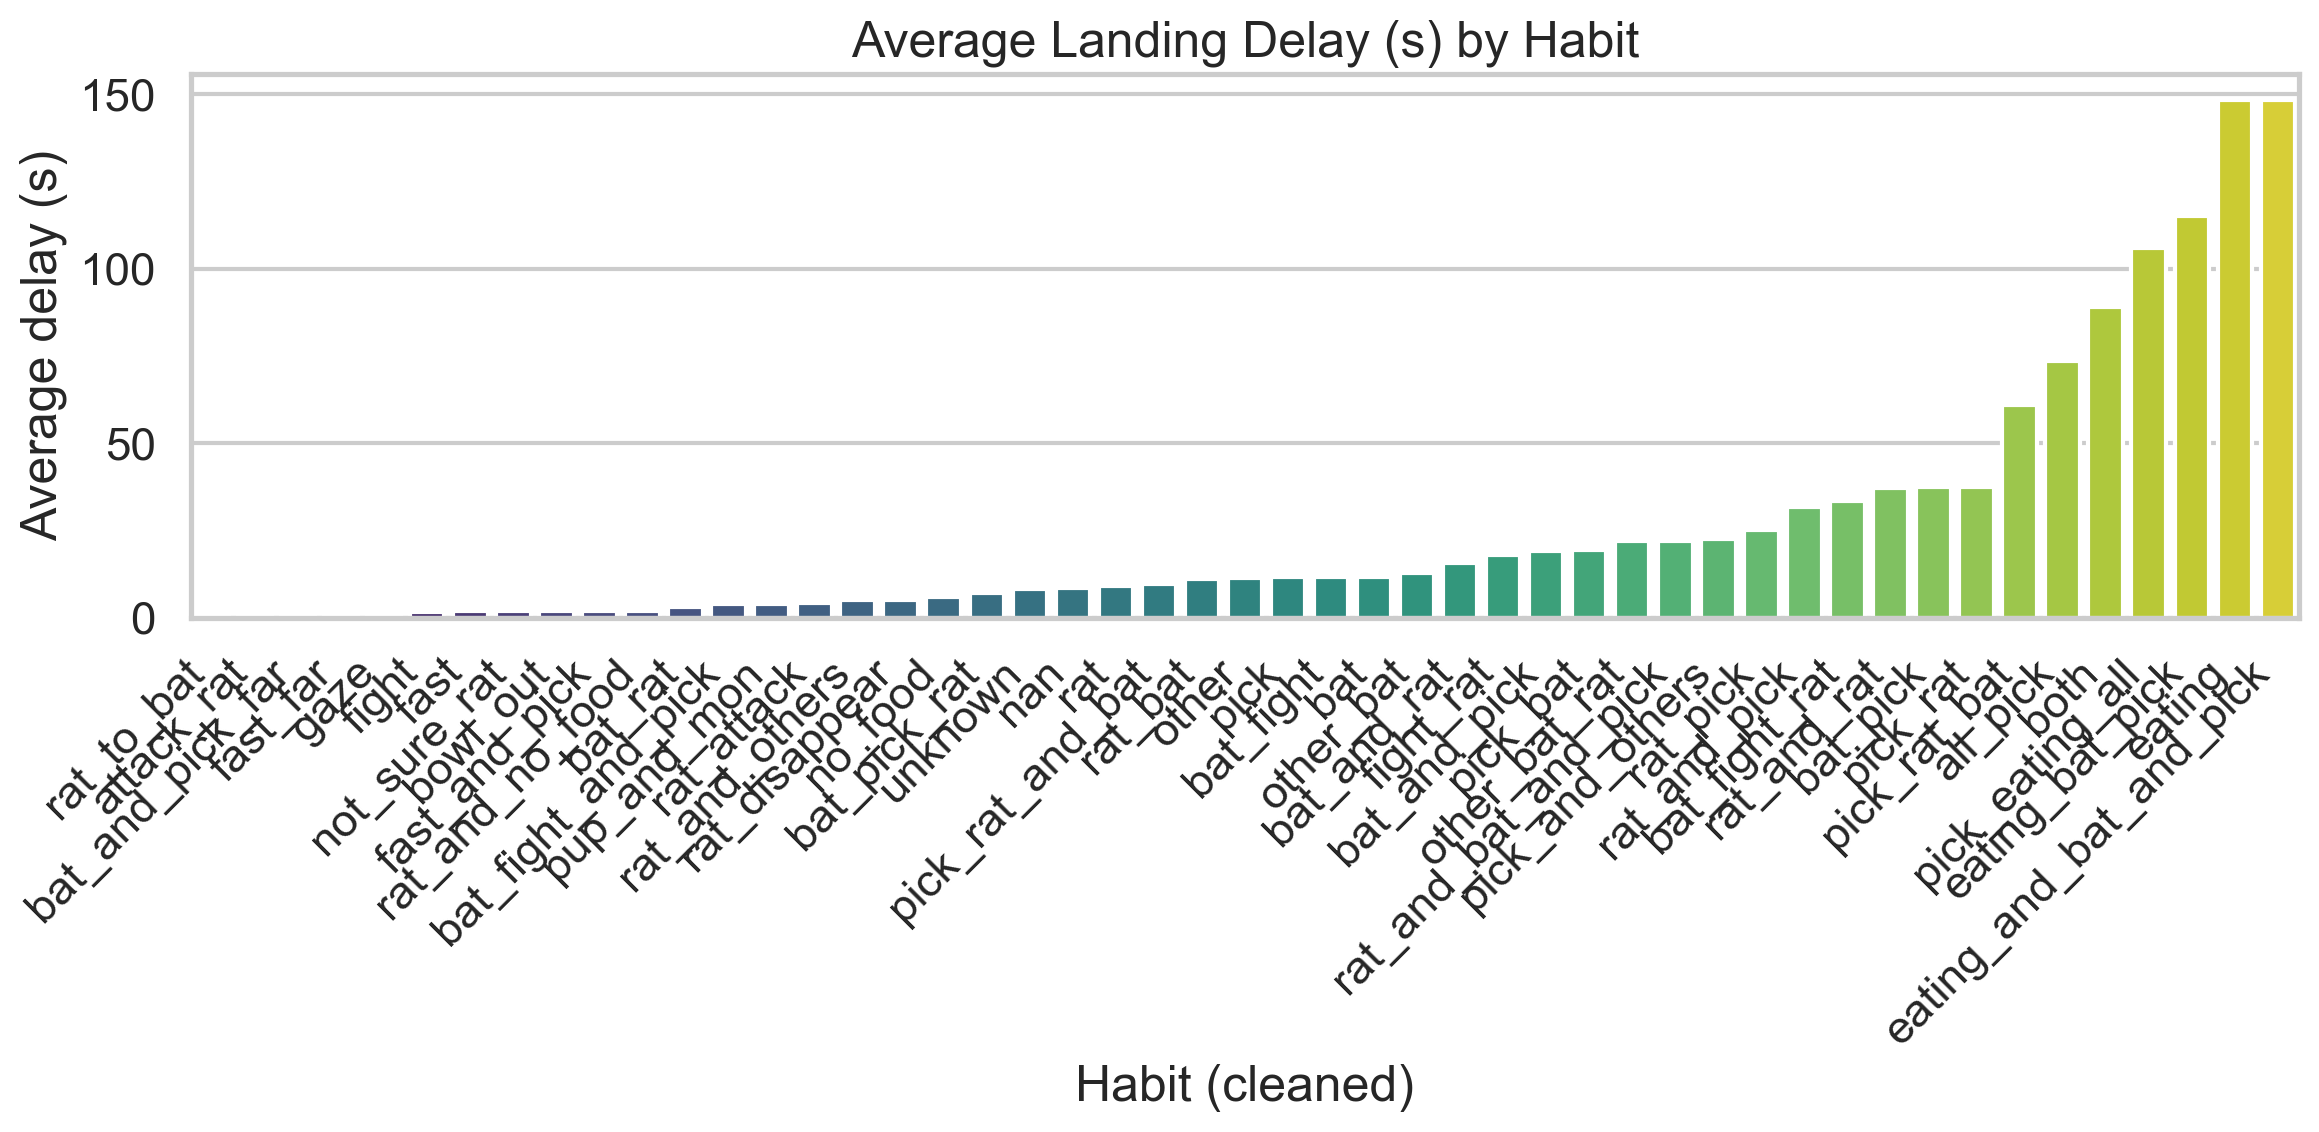
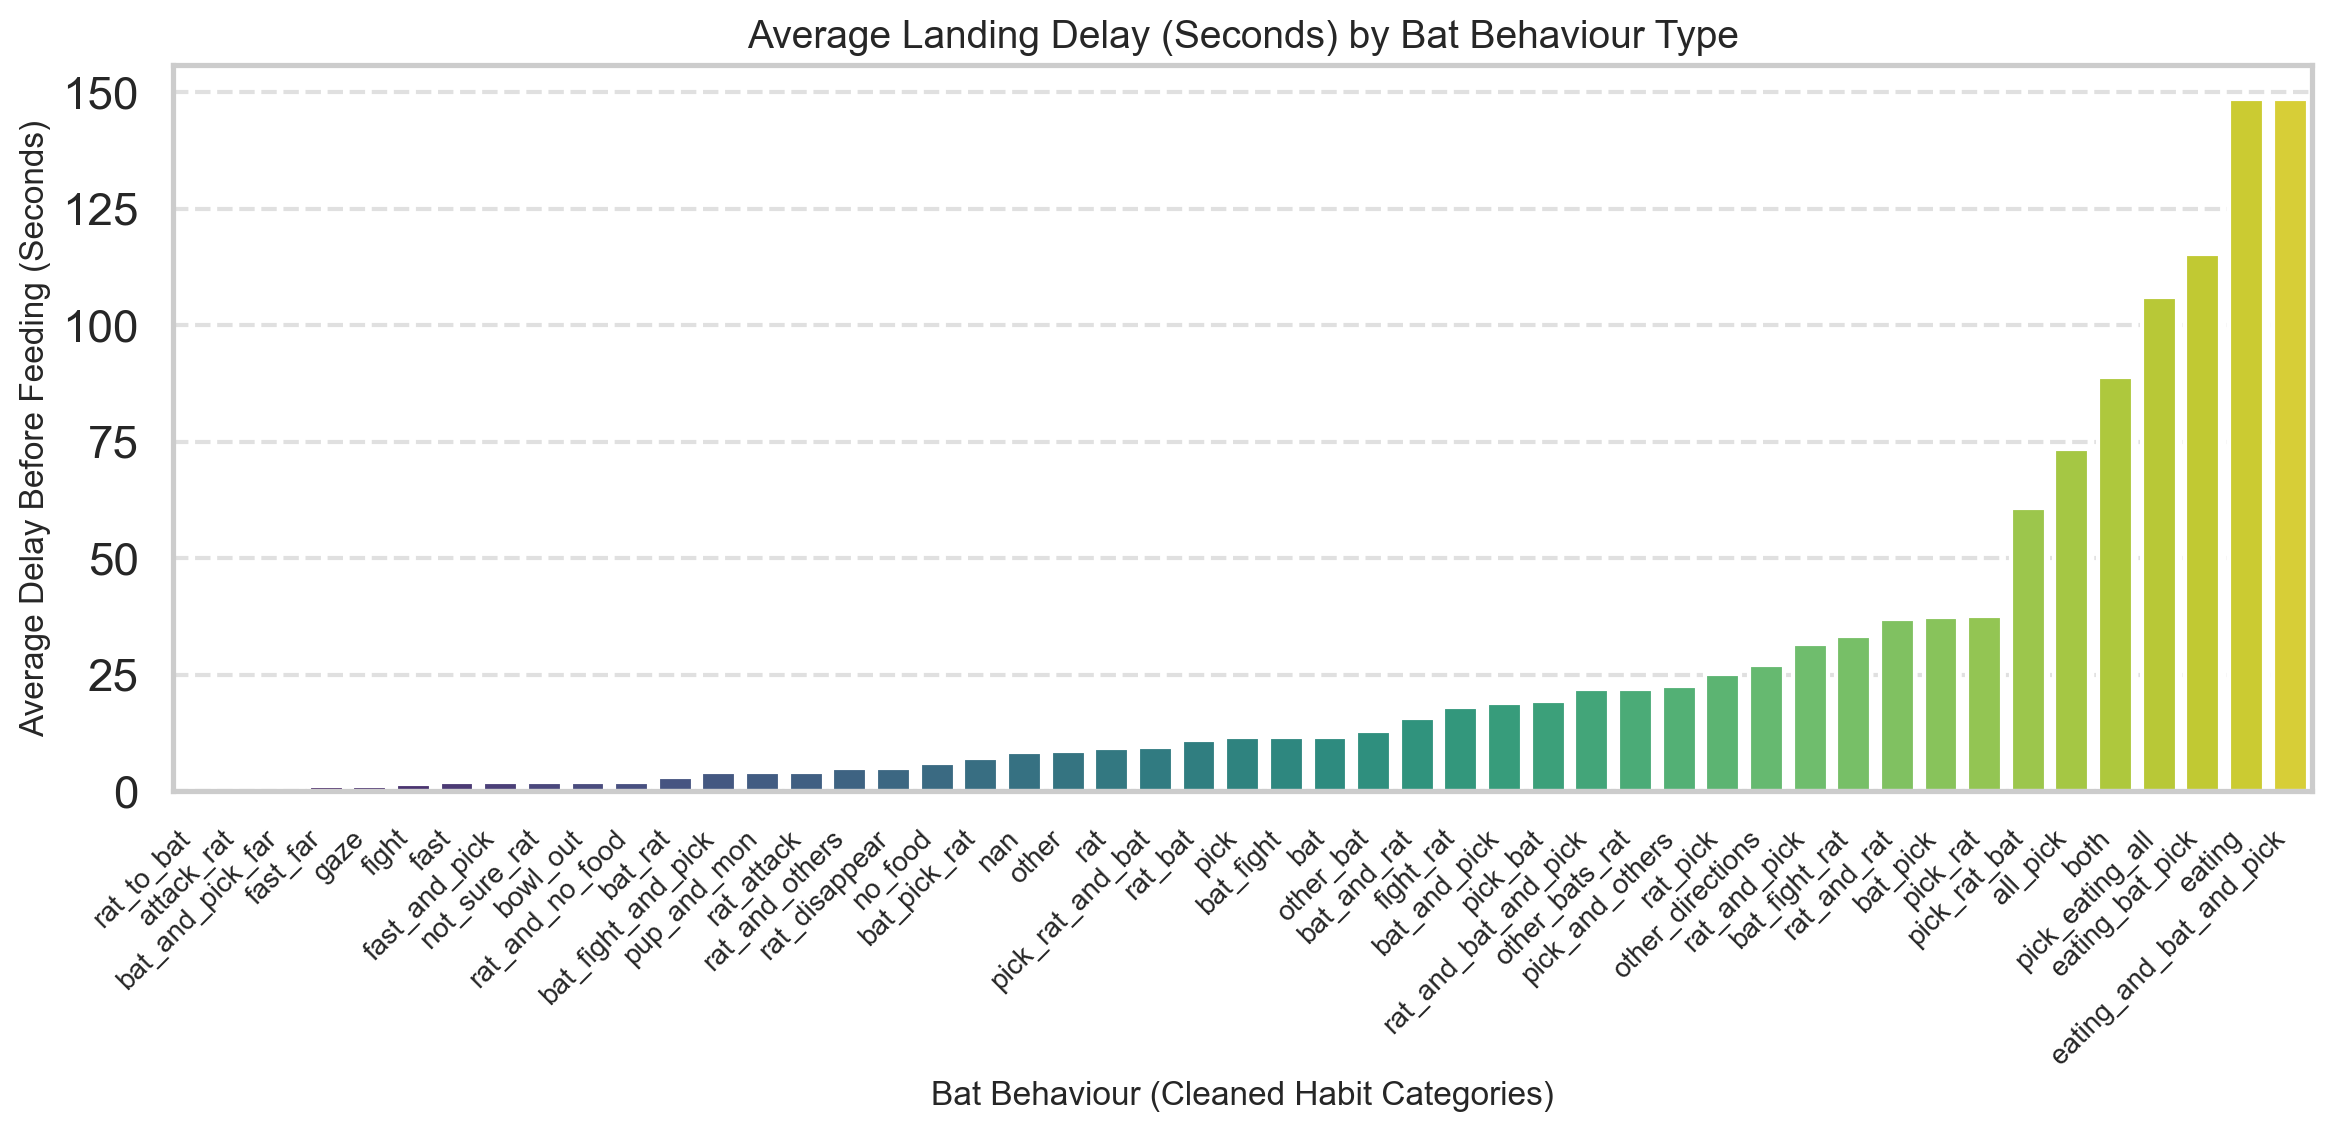
added data explanatory and som data cleaning

diff --git a/Assigment3_combined.py b/Assigment3_combined.py
@@ -1,0 +1,349 @@
+# ============================================================
+# HIT140 Project – S225 FOUNDATIONS OF DATA SCIENCE. Assignment 3
+#Bidhan Chaudhary (S394807)
+#Dipesh Sedhai (S395457)
+#Nitesh Raj Chaudhary (S394811)
+#Roshan Kumar Shrestha (S395498)
+# Datasets: dataset1.csv (bat landings, per-event) & dataset2.csv (30-min windows)
+# ============================================================
+
+import pandas as pd
+import numpy as np
+import matplotlib.pyplot as plt
+import seaborn as sns
+from scipy import stats
+import statsmodels.api as sm
+import statsmodels.formula.api as smf
+from statsmodels.stats.outliers_influence import variance_inflation_factor # Added for VIF
+
+# sklearn usage (used for simple train/test R²)
+try:
+    from sklearn.model_selection import train_test_split
+    from sklearn.linear_model import LinearRegression
+    from sklearn.metrics import r2_score, mean_squared_error
+    SKLEARN_AVAILABLE = True
+except Exception:
+    SKLEARN_AVAILABLE = False
+    print("Note: scikit-learn not available. Sklearn-based evaluation will be skipped. "
+          "Install via `pip install scikit-learn` if you want train/test evaluation.")
+
+# ---------- Settings ----------
+pd.set_option('display.max_columns', 200)
+sns.set(style="whitegrid", context="talk")
+
+
+# ---------- Utility: save figure ----------
+def savefig(path):
+    plt.tight_layout()
+    plt.savefig(path, dpi=200, bbox_inches="tight")
+    plt.close()
+
+
+# ---------- Utility: Season mapping helper ----------
+def season_from_month(m):
+    """Maps month number to a season name (Northern Hemisphere)."""
+    if pd.isna(m): return np.nan
+    try: mm = int(m)
+    except Exception: return np.nan
+    if mm in [12, 1, 2]: return "Winter"
+    if mm in [3, 4, 5]: return "Spring"
+    if mm in [6, 7, 8]: return "Summer"
+    if mm in [9, 10, 11]: return "Autumn"
+    return np.nan
+
+
+# ----------  Load datasets ----------
+df1 = pd.read_csv("dataset1.csv")   # event-level
+df2 = pd.read_csv("dataset2.csv")   # 30-min window-level
+
+
+# ----------  Cleaning functions ----------
+def clean_dataset1(df1):
+    """Clean event-level dataset: parse times, coerce numerics, drop missing critical rows,
+       winsorize numeric extremes, clean habit labels, create features."""
+    df = df1.copy()
+
+    # 1. Parse dates (if present)
+    for col in ["start_time", "rat_period_start", "rat_period_end", "sunset_time"]:
+        if col in df.columns:
+            df[col] = pd.to_datetime(df[col], errors="coerce", dayfirst=True)
+
+    # *** FIX: Robustly derive month and season from start_time ***
+    if "start_time" in df.columns:
+        # Extract month number from parsed datetime
+        df["month_num"] = df["start_time"].dt.month
+        # Map season using the reliable month number
+        df["season"] = df["month_num"].apply(season_from_month)
+    else:
+        # If start_time is missing, fall back to original 'month' column if present
+        if "month" in df.columns:
+            df["month_num"] = pd.to_numeric(df["month"], errors="coerce")
+            df["season"] = df["month_num"].apply(season_from_month)
+        else:
+             df["season"] = np.nan
+    # ***************************************************************
+
+    #  Coerce numeric columns
+    numeric_cols = [
+        "bat_landing_to_food", "seconds_after_rat_arrival",
+        "risk", "reward", "month", "hours_after_sunset" # 'season' removed as it's now derived
+    ]
+    for col in numeric_cols:
+        if col in df.columns:
+            df[col] = pd.to_numeric(df[col], errors="coerce")
+
+    # Drop duplicates
+    df = df.drop_duplicates()
+
+    # Drop rows missing critical fields for event analysis
+    required = ["start_time", "bat_landing_to_food", "risk", "reward"]
+    present_required = [c for c in required if c in df.columns]
+    if present_required:
+        df = df.dropna(subset=present_required)
+
+    # Remove negative/implausible values and winsorize extremes
+    if "bat_landing_to_food" in df.columns:
+        df = df[df["bat_landing_to_food"] >= 0]
+        q1, q99 = df["bat_landing_to_food"].quantile([0.01, 0.99])
+        df["bat_landing_to_food"] = df["bat_landing_to_food"].clip(lower=q1, upper=q99)
+
+    if "seconds_after_rat_arrival" in df.columns:
+        q1, q99 = df["seconds_after_rat_arrival"].quantile([0.01, 0.99])
+        df["seconds_after_rat_arrival"] = df["seconds_after_rat_arrival"].clip(lower=q1, upper=q99)
+
+    # Habit cleaning / normalization (no change)
+    if "habit" in df.columns:
+        mask_clean = ~df["habit"].astype(str).str.contains(r",", regex=True, na=False)
+        df.loc[mask_clean, "habit_cleaned"] = df.loc[mask_clean, "habit"].astype(str)
+
+        replace_map = {
+            "bat_figiht": "bat_fight", "rat attack": "rat_attack", "bats": "bat",
+            "others": "other", "other_bats": "other_bat", "other_bats/rat": "other_bat_rat",
+            "other directions": "other", "fight_bat": "bat_fight", "rat_and_bat": "bat_and_rat",
+            "pick_and_rat": "rat_and_pick", "pick_and_bat": "bat_and_pick",
+            "rat_pick_and_bat": "pick_rat_and_bat", "bat_rat_pick": "pick_rat_bat",
+            "pick_bat_rat": "pick_rat_bat", "eating_bat_rat_pick": "eating_bat_pick",
+            "bat_fight_and_rat": "bat_fight_rat", "rat_bat_fight": "bat_fight_rat",
+            "pick_and_all": "all_pick", " ": "unknown"
+        }
+        df["habit_cleaned"] = df["habit_cleaned"].astype(str).str.lower().str.replace(r"[ ,/]", "_", regex=True)
+        df["habit_cleaned"] = df["habit_cleaned"].replace(replace_map)
+        df["habit_cleaned"] = df["habit_cleaned"].fillna("unknown")
+    else:
+        df["habit_cleaned"] = "unknown"
+
+    # Flag if rat present at landing time (no change)
+    if "seconds_after_rat_arrival" in df.columns:
+        df["rat_present_at_landing"] = (df["seconds_after_rat_arrival"] >= 0).astype(int)
+
+    # Create vigilance proxy (no change)
+    if "bat_landing_to_food" in df.columns:
+        df["vigilance_delay_s"] = df["bat_landing_to_food"]
+    else:
+        df["vigilance_delay_s"] = np.nan
+
+    return df
+
+
+def clean_dataset2(df2):
+    """Clean window-level dataset: parse times, coerce numerics, drop missing critical rows,
+       filter rat_minutes plausible range, winsorize extremes, create rat_present."""
+    df = df2.copy()
+
+    if "time" in df.columns:
+        df["time"] = pd.to_datetime(df["time"], errors="coerce", dayfirst=True)
+        # *** FIX: Robustly derive month and season from time ***
+        df["month_num"] = df["time"].dt.month
+        df["season"] = df["month_num"].apply(season_from_month)
+        # ********************************************************
+    else:
+        # Fallback if time is missing
+        if "month" in df.columns:
+            df["month_num"] = pd.to_numeric(df["month"], errors="coerce")
+            df["season"] = df["month_num"].apply(season_from_month)
+        else:
+             df["season"] = np.nan
+
+    numeric_cols = [
+        "hours_after_sunset", "bat_landing_number",
+        "food_availability", "rat_minutes", "rat_arrival_number", "month"
+    ]
+    for col in numeric_cols:
+        if col in df.columns:
+            df[col] = pd.to_numeric(df[col], errors="coerce")
+
+    df = df.drop_duplicates()
+
+    # Require core fields for window-level analyses (no change)
+    required = ["time", "bat_landing_number", "rat_minutes"]
+    present_req = [c for c in required if c in df.columns]
+    if present_req:
+        df = df.dropna(subset=present_req)
+
+    # Keep rat_minutes within a plausible window (0-30 minutes) (no change)
+    if "rat_minutes" in df.columns:
+        df = df[df["rat_minutes"].between(0, 30)]
+
+    # Remove negatives and winsorize extremes on key numeric columns (no change)
+    for col in ["rat_arrival_number", "food_availability", "bat_landing_number"]:
+        if col in df.columns:
+            df = df[df[col] >= 0]
+            q1, q99 = df[col].quantile([0.01, 0.99])
+            df[col] = df[col].clip(lower=q1, upper=q99)
+
+    # features (no change)
+    if "rat_minutes" in df.columns:
+        df["rat_present"] = (df["rat_minutes"] > 0).astype(int)
+        df["rat_pressure"] = df["rat_minutes"] / 30.0
+
+    return df
+
+
+df1_clean = clean_dataset1(df1)
+df2_clean = clean_dataset2(df2)
+
+
+
+
+#################### Feature engineering ####################
+# time period bins (window-level)
+if "hours_after_sunset" in df2_clean.columns:
+    df2_clean["time_period"] = pd.cut(df2_clean["hours_after_sunset"], bins=[-1, 2, 5, 10], labels=["Early", "Mid", "Late"])
+
+# date columns for merging
+if "start_time" in df1_clean.columns:
+    df1_clean["date"] = pd.to_datetime(df1_clean["start_time"]).dt.date
+if "time" in df2_clean.columns:
+    df2_clean["date"] = pd.to_datetime(df2_clean["time"]).dt.date
+
+
+###################### Merge by DATE (daily aggregate of window-level df2) #################
+def merge_by_date(d1, d2):
+    """
+    Aggregate window-level d2 to daily summaries and left-merge onto event-level d1 by date.
+    """
+    d1 = d1.copy()
+    d2 = d2.copy()
+    d1["date"] = pd.to_datetime(d1["start_time"]).dt.date
+    d2["date"] = pd.to_datetime(d2["time"]).dt.date
+
+    # Aggregate d2 per date (choose aggregation functions)
+    agg_dict = {}
+    for c in ["bat_landing_number", "food_availability", "rat_minutes", "rat_arrival_number", "hours_after_sunset", "rat_pressure"]:
+        if c in d2.columns:
+            agg_dict[c] = "mean"
+    if "rat_present" in d2.columns:
+        agg_dict["rat_present"] = "max"  # 1 if rats present any time that day
+    if "month_num" in d2.columns: # Use the reliable month_num for 'first'
+        agg_dict["month_num"] = "first"
+    if "season" in d2.columns:
+        agg_dict["season"] = "first"
+
+    agg_d2 = d2.groupby("date").agg(agg_dict).reset_index()
+
+    merged = pd.merge(d1, agg_d2, on="date", how="left", suffixes=("_event", "_day"))
+    return merged
+
+
+# Use date-level merge by default
+df_merged = merge_by_date(df1_clean, df2_clean)
+
+
+print("Merged (date-level) shape:", df_merged.shape)
+
+
+#  Exploratory Visuals & Tests ----------
+#  Average landing delay by habit
+if "habit_cleaned" in df1_clean.columns and "vigilance_delay_s" in df1_clean.columns:
+    avg_landing = df1_clean.groupby("habit_cleaned")["vigilance_delay_s"].mean().sort_values()
+    plt.figure(figsize=(12, 6))
+    sns.barplot(x=avg_landing.index, y=avg_landing.values, palette="viridis")
+    plt.title("Average Landing Delay (Seconds) by Bat Behaviour Type", fontsize=14)
+    plt.xlabel("Bat Behaviour (Cleaned Habit Categories)", fontsize=12)
+    plt.ylabel("Average Delay Before Feeding (Seconds)", fontsize=12)
+    plt.xticks(rotation=45, ha="right", fontsize=10)
+    plt.grid(axis='y', linestyle='--', alpha=0.6)
+    savefig("avg_landing_time_by_habit_barchart.png")
+
+# Risk & Reward stacked by habit
+if "habit_cleaned" in df1_clean.columns and "risk" in df1_clean.columns and "reward" in df1_clean.columns:
+    ct = pd.crosstab(df1_clean["habit_cleaned"], [df1_clean["risk"], df1_clean["reward"]])
+    try:
+        ct = ct.reorder_levels([0, 1], axis=1).sort_index(axis=1)
+    except Exception:
+        pass
+    labels = []
+    for col in ct.columns:
+        r, rw = col
+        labels.append(f"{'High' if r == 1 else 'Low'} Risk / {'High' if rw == 1 else 'Low'} Reward")
+    ct.columns = labels
+    plt.figure(figsize=(13, 7))
+    ct.plot(kind="bar", stacked=True, colormap="coolwarm", figsize=(13, 7), ax=plt.gca()) # Added ax=plt.gca()
+    plt.title("Distribution of Risk and Reward by Bat Behaviour Category", fontsize=14)
+    plt.xlabel("Bat Behaviour (Cleaned Habit Categories)", fontsize=12)
+    plt.ylabel("Number of Observations", fontsize=12)
+    plt.xticks(rotation=45, ha="right", fontsize=10)
+    plt.legend(
+        title="Risk and Reward Combination",
+        labels=["Low Risk / Low Reward", "Low Risk / High Reward",
+                "High Risk / Low Reward", "High Risk / High Reward"],
+        bbox_to_anchor=(1.02, 1), loc="upper left"
+    )
+    plt.grid(axis='y', linestyle='--', alpha=0.6)
+    savefig("risk_reward_by_habit_stackedbarchart.png")
+
+# Correlation and scatter for 'rat' habit
+if "habit_cleaned" in df1_clean.columns:
+    df1_rat = df1_clean[df1_clean["habit_cleaned"].astype(str).str.lower().eq("rat")]
+    if not df1_rat.empty and "seconds_after_rat_arrival" in df1_rat.columns and "vigilance_delay_s" in df1_rat.columns:
+        sub = df1_rat[["seconds_after_rat_arrival", "vigilance_delay_s"]].dropna()
+        if len(sub) >= 3:
+            r, p = stats.pearsonr(sub["seconds_after_rat_arrival"], sub["vigilance_delay_s"])
+            print(f"[dataset1] Pearson corr (seconds_after_rat_arrival vs landing delay): r={r:.3f}, p={p:.4f}")
+            plt.figure(figsize=(9, 6))
+            plt.scatter(sub["seconds_after_rat_arrival"], sub["vigilance_delay_s"], alpha=0.6)
+            plt.title('Landing Delay vs Seconds After Rat Arrival (habit="rat")')
+            plt.xlabel("Seconds after rat arrival")
+            plt.ylabel("Landing delay (s)")
+            savefig("landing_delay_vs_seconds_after_rat_arrival.png")
+
+#  Boxplots on window-level by rat presence
+if "rat_present" in df2_clean.columns:
+    if "bat_landing_number" in df2_clean.columns:
+        plt.figure(figsize=(8, 6))
+        sns.boxplot(x="rat_present", y="bat_landing_number", data=df2_clean)
+        plt.title("Bat Landings per 30-min Window vs Rat Presence")
+        plt.xlabel("Rat present (0/1)")
+        plt.ylabel("Bat landings")
+        savefig("box_bat_landings_vs_rat_presence.png")
+
+    if "food_availability" in df2_clean.columns:
+        plt.figure(figsize=(8, 6))
+        sns.boxplot(x="rat_present", y="food_availability", data=df2_clean)
+        plt.title("Food Availability vs Rat Presence")
+        plt.xlabel("Rat present (0/1)")
+        plt.ylabel("Food availability")
+        savefig("box_food_vs_rat_presence.png")
+
+# T-tests (window-level): bat_landing_number and food_availability
+if "rat_present" in df2_clean.columns:
+    with_rats = df2_clean[df2_clean["rat_present"] == 1]
+    without_rats = df2_clean[df2_clean["rat_present"] == 0]
+    if not with_rats.empty and not without_rats.empty:
+        if "bat_landing_number" in df2_clean.columns:
+            t1, p1 = stats.ttest_ind(with_rats["bat_landing_number"], without_rats["bat_landing_number"], equal_var=False, nan_policy="omit")
+            print(f"\n[dataset2] T-test bat_landing_number: t={t1:.3f}, p={p1:.4f}")
+        if "food_availability" in df2_clean.columns:
+            t2, p2 = stats.ttest_ind(with_rats["food_availability"], without_rats["food_availability"], equal_var=False, nan_policy="omit")
+            print(f"[dataset2] T-test food_availability: t={t2:.3f}, p={p2:.4f}")
+
+
+# ---------- Summary tables ----------
+if "habit_cleaned" in df1_clean.columns:
+    summary_habit = df1_clean.groupby("habit_cleaned")[["risk", "reward", "vigilance_delay_s"]].mean().sort_values("risk", ascending=False)
+    print("\n[dataset1] Mean risk, reward, delay by habit (top 10):\n", summary_habit.head(10))
+
+if "rat_present" in df2_clean.columns:
+    summary_window = df2_clean.groupby("rat_present")[["bat_landing_number", "food_availability", "rat_minutes"]].mean()
+    print("\n[dataset2] Means by rat presence:\n", summary_window)
+
